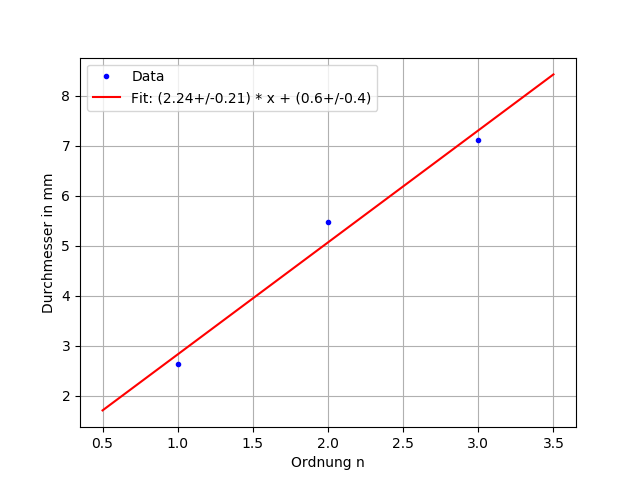
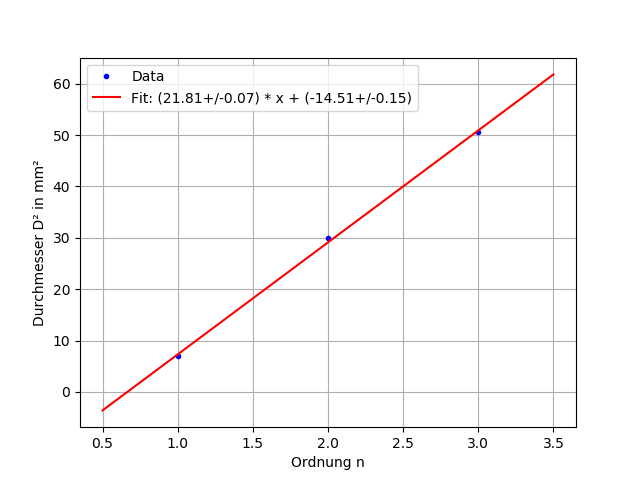
Hyperfeinstruktur Laser

diff --git a/hyperfeinstruktur/hyperfein.py b/hyperfeinstruktur/hyperfein.py
@@ -45,7 +45,46 @@ def uc_lin_reg(x,xerr,y,yerr):
     b = ym - m*xm
     return m,b;
 
-def green():
+def laser():
+    data1 = np.loadtxt("115/laser_green1.txt",unpack=True)
+    data2 = np.loadtxt("115/laser_green2.txt",unpack=True)
+    data3 = np.loadtxt("115/laser_green3.txt",unpack=True)
+
+    lam = uc.ufloat(650,1)*1e-9
+    f = uc.ufloat(150,1)*1e-3
+    d1 = np.array([840-475,1090-235,1236-79]) /155
+    d2 = np.array([937-497,1141-321,1310-184]) /155
+    d3 = 1/np.sqrt(2) * np.array([1156-568,1481-253,1600-155]) / 155
+    dm = np.mean([d1,d2,d3],axis = 0)
+    derr = np.std([d1,d2,d3],axis = 0)
+
+    dm = dm**2
+    derr = derr**2
+
+    m,b = uc_lin_reg([1,2,3],0,dm,derr)
+    d = (4*lam*f**2)/(m*1e-6) #convert mm**2 to m**2
+    print("m = ", m , "b = ", b)
+    print("d = ", d*1e3, "mm")
+
+
+
+    #plt.plot(data1[0], data1[1], "b.-",label="Data1")
+    #plt.plot(data2[0], data2[1], "r.-",label="Data2")
+    #plt.plot(data3[0], data3[1], "g.-",label="Data3")
+
+    xw = np.linspace(0.5,3.5,1000)
+    plt.plot([1,2,3],dm,"b.", label = "Data")
+    plt.plot(xw,m.n*xw+b.n,"r-", label = ("Fit: ("+ str(m) + ") * x + (" + str(b) + ")") )
+
+    plt.xlabel("Ordnung n")
+    plt.ylabel("Durchmesser D² in mm²")
+    plt.legend()
+    plt.grid(True)
+    #plt.show()
+    plt.clf()
+    return d;
+
+def green(d):
     data1 = np.loadtxt("115/data_green1.txt",unpack=True)
     data2 = np.loadtxt("115/data_green2.txt",unpack=True)
     #data3 = np.loadtxt("115/data_green3.txt",unpack=True)
@@ -64,42 +103,9 @@ def green():
 
     return;
 
-def laser():
-    data1 = np.loadtxt("115/laser_green1.txt",unpack=True)
-    data2 = np.loadtxt("115/laser_green2.txt",unpack=True)
-    data3 = np.loadtxt("115/laser_green3.txt",unpack=True)
 
-    lam = 650e-9
-    f = 150e-3
-    d1 = np.array([840-475,1090-235,1236-79]) /155
-    d2 = np.array([937-497,1141-321,1310-184]) /155
-    d3 = 1/np.sqrt(2) * np.array([1156-568,1481-253,1600-155]) / 155
-    dm = np.mean([d1,d2,d3],axis = 0)
-    derr = np.std([d1,d2,d3],axis = 0)
 
-    print(d1,d2,d3)
-
-    m,b = uc_lin_reg([1,2,3],0,dm,derr)
-    print("m = ", m , "b = ", b)
-
-    xw = np.linspace(0.5,3.5,1000)
-
-    plt.plot([1,2,3],dm,"b.", label = "Data")
-    plt.plot(xw,m.n*xw+b.n,"r-", label = ("Fit: ("+ str(m) + ") * x + (" + str(b) + ")") )
-
-    #plt.plot(data1[0], data1[1], "b.-",label="Data1")
-    #plt.plot(data2[0], data2[1], "r.-",label="Data2")
-    #plt.plot(data3[0], data3[1], "g.-",label="Data3")
-
-    plt.xlabel("Ordnung n")
-    plt.ylabel("Durchmesser in mm")
-    plt.legend()
-    plt.grid(True)
-    plt.show()
-    plt.clf()
-    return;
-
-def uv():
+def uv(d):
     data0 = np.loadtxt("115/date_uv0.txt",unpack=True)
     data1 = np.loadtxt("115/date_uv1.txt",unpack=True)
     data2 = np.loadtxt("115/date_uv2.txt",unpack=True)
@@ -118,14 +124,14 @@ def uv():
     plt.ylabel("Intensität")
     plt.legend()
     plt.grid(True)
-    plt.show()
+    #plt.show()
     plt.clf()
     return;
 
 
 def main():
+    d = laser()
     #green()
-    laser()
     #uv()
     return;
 
